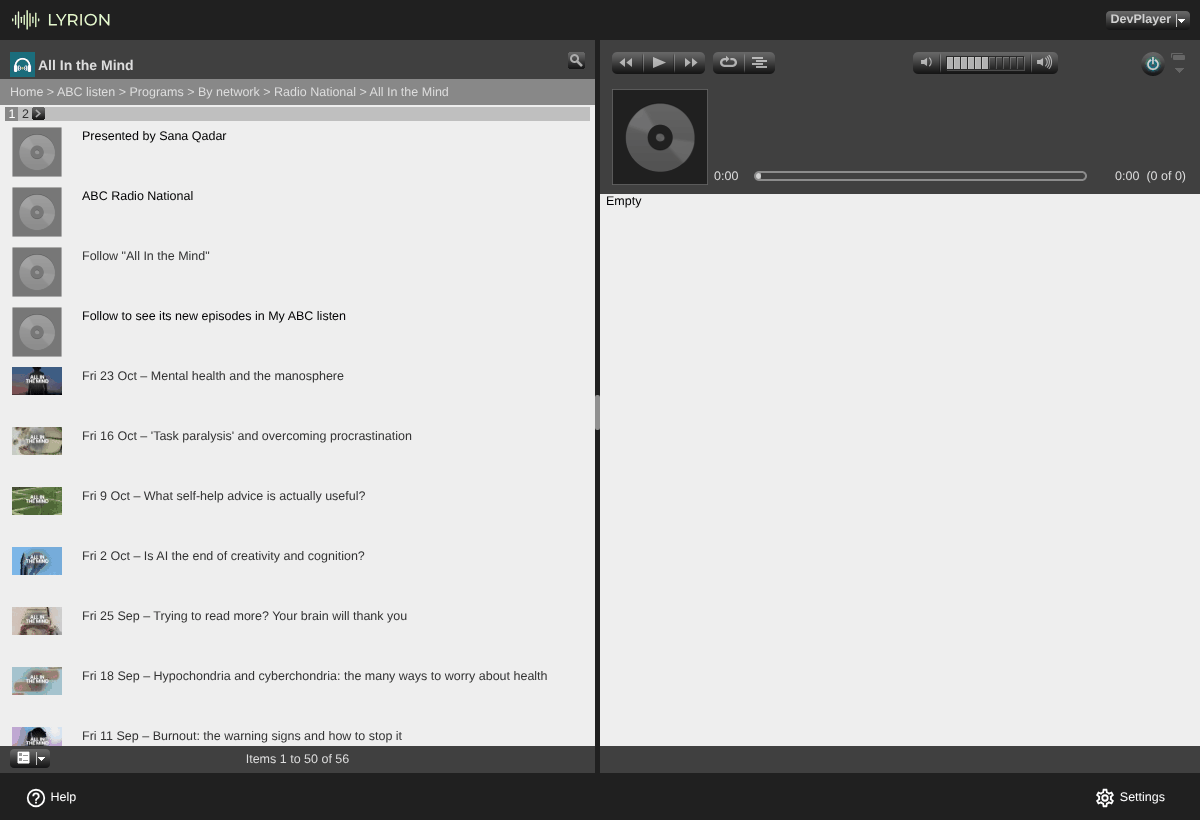
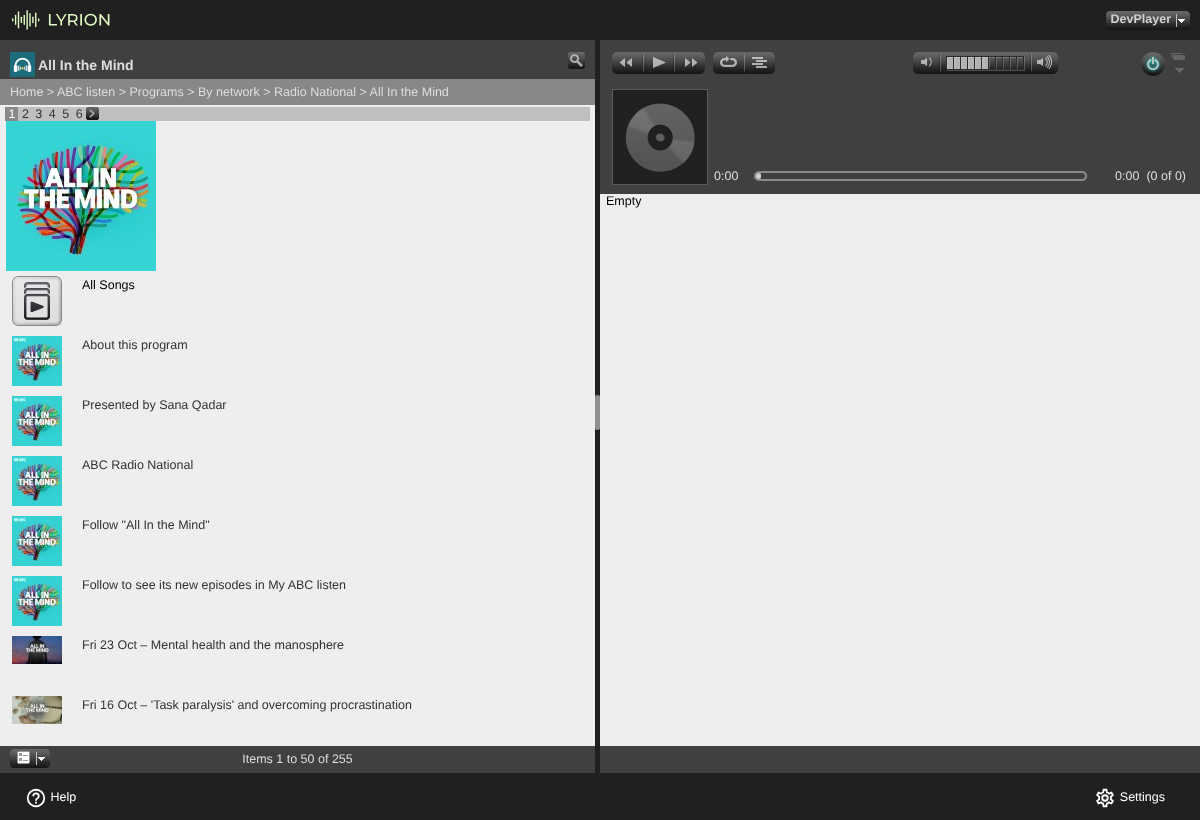
[O9] README: refresh the Default-skin program screenshot
docs/images/default-program-episodes.png showed v1.0.0's program page: grey
placeholder icons on the presenter, network and follow rows, and the first
page of a 56-row list. The new one is the same page (Programs > By network >
Radio National > All In the Mind) with this change: About this program and
the other text rows with the program's artwork, one list of 255 rows. The
alt text names the About row too.

Changed region(s): [[0.0, 0.122, 0.4317, 0.9451], [0.2467, 0.4573, 0.2775, 0.4878]]

diff --git a/README.md b/README.md
@@ -202,7 +202,7 @@ date and title ("Fri 23 Oct – Mental health and the manosphere"), as one list 
 episode ABC lists (its newest 250). Programs use ABC's current titles, such as "Radio National
 Breakfast" and "If You're Listening".
 
-![A program's page in the Default web interface: All In the Mind's presenter, network and Follow row, then its episodes, newest first, each named with its date and title](docs/images/default-program-episodes.png)
+![A program's page in the Default web interface: All In the Mind's About this program, presenter, network and Follow rows with the program's artwork, then its episodes, newest first, each named with its date and title](docs/images/default-program-episodes.png)
 
 The description at the top of a program's page is kept short: its first paragraph, up to about
 200 characters. When that isn't the whole text, **About this program**, right below it, opens all
